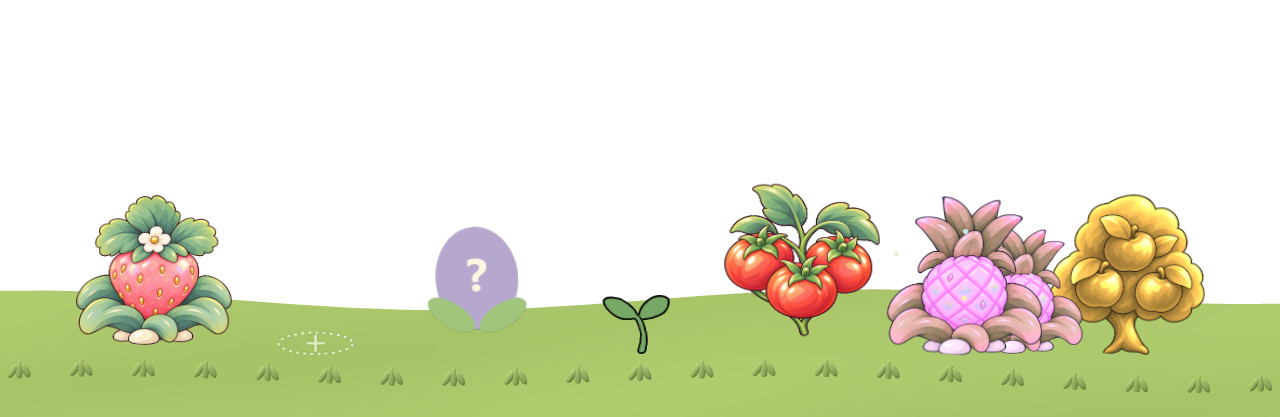
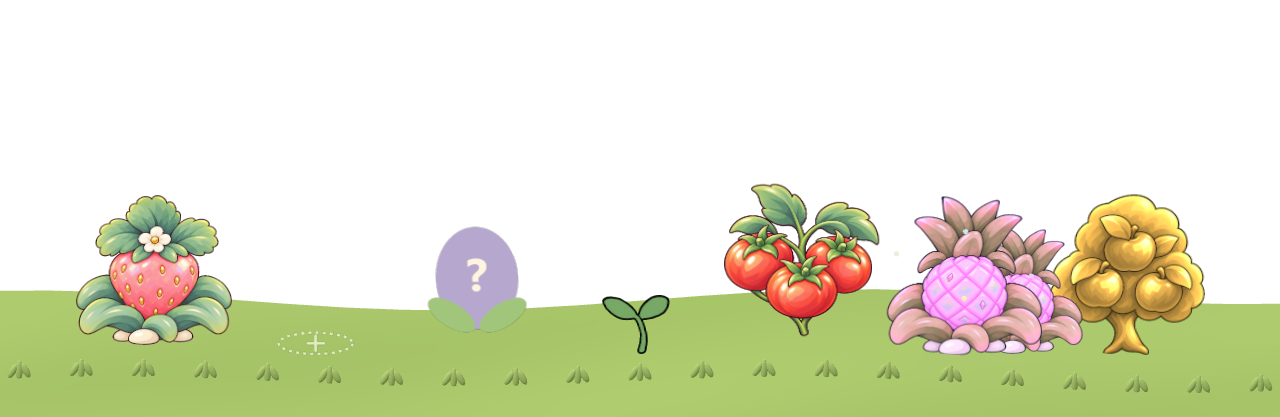
fix: reduce desktop garden rendering load and compact companion panels

Changed region(s): [[0.5625, 0.4365, 0.6875, 0.6235], [0.7188, 0.4676, 0.7812, 0.53]]

diff --git a/app/src/renderer/garden/main.ts b/app/src/renderer/garden/main.ts
@@ -1,4 +1,5 @@
 import '../ui/embedded-bridge';
+import { withTimeout } from '../../shared/timeout';
 import { uiIcon } from '../ui/icons';
 import {renderAppearanceShop} from './appearance-shop';
 import { renderCharacterHeader } from './character-header';
@@ -109,6 +110,7 @@ function showWeather(status:GardenWeatherStatus):void {
 }
 async function refreshWeather(){if(state?.v3||weatherFetching||page!=='weather')return;weatherFetching=true;try{weatherStatus=await api.weather();weatherReceivedAt=Date.now();if(page==='weather'&&!state?.v3)showWeather(weatherStatus);}catch{if(page==='weather'&&!state?.v3)root.textContent='天气暂时无法读取，稍后自动重试。';}finally{weatherFetching=false;}}
 let state: GardenState | undefined, busy = false, fetching = false, signature = '', parentId: string | null = null;
+let loadError='';
 let buyMode = false, sellMode = false;
 let characters: CharacterMeta[] = [], draggingFruit = false, switchingActor = false;
 let actorRevision = 0;
@@ -216,8 +218,8 @@ function art(sp: Species, ts: Trait[] = [], ratio = 1, mode: 'fruit'|'plant'|'se
         box.append(other);
     }
     attachMutationEffects(box, img.src, shown, quality === 'gold' && (mode !== 'plant' || ratio >= 1));
-    if(render3d&&sp==='strawberry'&&(mode!=='plant'||ratio>=1))mountStrawberry3D(box,{mode,ratio,traits:shown,regrowing});
-    if(render3d&&sp==='pineapple'&&(mode!=='plant'||ratio>=1))mountPineapple3D(box,{mode,ratio,traits:shown});
+    if(!compact&&render3d&&sp==='strawberry'&&(mode!=='plant'||ratio>=1))mountStrawberry3D(box,{mode,ratio,traits:shown,regrowing});
+    if(!compact&&render3d&&sp==='pineapple'&&(mode!=='plant'||ratio>=1))mountPineapple3D(box,{mode,ratio,traits:shown});
     return box;
 }
 function produceArt(p: Produce): HTMLElement { return art(p.species, p.traits, 1, 'fruit', false, fruitQuality(p.traits,p)); }
@@ -313,9 +315,10 @@ async function refresh(force = false): Promise<void> {
     if (fetching || switchingActor || draggingFruit)
         return;
     fetching = true;
+    loadError='';
     const revision = actorRevision;
     try {
-        const next = await api.get();
+        const next = await withTimeout(()=>api.get(),10000,'花园读取超时');
         if (revision !== actorRevision || switchingActor) return;
         const key = JSON.stringify(next);
         const unveiled=state?.plots.find(p=>p&&needsReveal(p)&&next.plots.some(n=>n?.id===p.id&&n.revealed));
@@ -327,7 +330,8 @@ async function refresh(force = false): Promise<void> {
         }
     }
     catch (e) {
-        notice(e instanceof Error ? e.message : String(e));
+        if (!state) { loadError=e instanceof Error?e.message:String(e);render(); }
+        else notice(e instanceof Error ? e.message : String(e));
     }
     finally {
         fetching = false;
@@ -562,7 +566,9 @@ function render(): void {
     if(page==='weather'){if(weatherStatus)showWeather(weatherStatus);else root.textContent='正在读取天气…';void refreshWeather();return;}
     document.body.classList.toggle('travel-mode', !strip && (page === 'travel' || page === 'moments'));
     if (!state) {
-        root.textContent = '正在打开花园…';
+        root.replaceChildren();
+        if(loadError){const error=el('section',undefined,'garden-load-error');error.append(el('p',loadError),button('重试',()=>{void refresh(true);render();}));root.append(error);}
+        else root.textContent = '正在打开花园…';
         return;
     }
     if (strip) {
@@ -660,6 +666,7 @@ function renderPlots(host: HTMLElement): void {
     const p = state!.plots[index];
     if (!p && index >= unlockedPlots(state!)) { host.append(el('p', `新版花园使用四块土地，已有作物可以继续收获。`)); return; }
     if (!p) {
+        if(compact){host.append(el('h2',`${index+1}号土地`));renderCompactSeeds(host,index);return;}
         host.append(el('h2', `给 ${index + 1} 号土地选一粒种子`), el('p', state!.v3?'每轮幼苗期可施肥一次，再生后重新选择。':'每株只施肥一次，覆盖全部采摘。', 'muted'));
         const grid = el('div', undefined, 'grid');
         groupSeeds(state!.seeds).forEach(({ seed, count }) => grid.append(seedCard(seed, index, count)));
@@ -1021,6 +1028,16 @@ function positionQuest(): void {
 window.addEventListener('pagehide',()=>farmScene?.dispose(),{once:true});
 
 let bagTab='seeds';
+function renderCompactSeeds(host:HTMLElement,plot?:number):void {
+ const grid=el('div',undefined,'companion-seeds');
+ for(const {seed,count} of groupSeeds(state!.seeds)){
+   const b=button('',()=>{if(plot!==undefined){void act({type:'plant',plot,seed:seed.id});return;}selectedSeed=selectedSeed===seed.id?null:seed.id;api.selectSeed(selectedSeed);render();});
+   b.append(art(seed.species,seed.genes,1,'seed'),el('strong',SPECIES[seed.species].name),el('small','×'+count));b.className='companion-seed';
+   b.setAttribute('aria-pressed',String(selectedSeed===seed.id));b.title=SPECIES[seed.species].name;
+   b.disabled=busy||(render3d&&!supportsGarden3D(seed.species));if(render3d&&!supportsGarden3D(seed.species))b.title+=' · 手绘／桌边模式';grid.append(b);
+ }
+ host.append(grid);if(!state!.seeds.length)host.append(button('商店',()=>api.open('shop')));
+}
 function renderCompact():void {
  if(!state)return;
  const nav=el('nav',undefined,'companion-nav');
@@ -1031,9 +1048,7 @@ function renderCompact():void {
  if(page==='bag'||page==='plots'){
    const tabs=el('nav',undefined,'companion-subnav');for(const [id,label] of [['seeds','种子'],['produce','收获'],['supplies','道具']])tabs.append(button(label,()=>{bagTab=id;render();},bagTab===id?'active':''));content.append(tabs);
    if(bagTab==='seeds'){
-     const grid=el('div',undefined,'companion-seeds');
-     for(const {seed,count} of groupSeeds(state.seeds)){const b=button('',()=>{selectedSeed=selectedSeed===seed.id?null:seed.id;api.selectSeed(selectedSeed);render();});b.append(art(seed.species,seed.genes,1,'seed'),el('strong',SPECIES[seed.species].name),el('small','×'+count));b.className='companion-seed';b.setAttribute('aria-pressed',String(selectedSeed===seed.id));b.title=SPECIES[seed.species].name;b.disabled=busy||(render3d&&!supportsGarden3D(seed.species));if(render3d&&!supportsGarden3D(seed.species))b.title+=' · 手绘／桌边模式';grid.append(b);}content.append(grid);
-     if(!state.seeds.length)content.append(button('商店',()=>api.open('shop')));
+     renderCompactSeeds(content);
    }else{renderBag(content);content.classList.add('bag-'+bagTab);}
  } else if(page==='book')renderBook(content);
  else if(page==='friends')renderFriends(content,ctx);

diff --git a/app/src/main/garden/desktop-host.ts b/app/src/main/garden/desktop-host.ts
@@ -12,13 +12,14 @@ export async function startGardenDesktop(bounds:Rectangle,directory:string,onCli
   return new Promise((resolve,reject)=>{
     const child=spawn('powershell.exe',['-NoProfile','-NoLogo','-NonInteractive','-STA','-ExecutionPolicy','Bypass','-File',file],{windowsHide:true,stdio:['pipe','pipe','pipe']});
     let probeWait:{resolve:(kind:string)=>void;reject:(e:Error)=>void;timer:ReturnType<typeof setTimeout>}|undefined;
-    let ready=false,closed=false,buffer='',stderr='',pending=false,latest:Buffer|null=null,lastFrame=Date.now();
+    let ready=false,closed=false,buffer='',stderr='',pending=false,latest:NativeImage|null=null,lastFrame=Date.now();
+    // Coalesce pending frames before PNG encoding; retain the final still frame for reduced motion.
     const send=(png:Buffer)=>{pending=true;lastFrame=Date.now();child.stdin.write('frame|'+png.toString('base64')+'\n');};
-    const host:GardenDesktopHost={frames:0,handle:'0',probe(x,y){return new Promise((resolve,reject)=>{if(closed||probeWait){reject(Error('Desktop probe unavailable'));return;}const timer=setTimeout(()=>{probeWait=undefined;reject(Error('Desktop probe timeout'));},3000);probeWait={resolve,reject,timer};child.stdin.write(`probe|${Math.round(x)}|${Math.round(y)}\n`);});},send(image){if(closed||!ready||image.isEmpty())return;const png=image.toPNG();if(pending){latest=png;return;}send(png);},dispose(){if(closed)return;closed=true;if(probeWait){clearTimeout(probeWait.timer);probeWait.reject(Error('Desktop closed'));probeWait=undefined;}latest=null;clearTimeout(startup);clearInterval(watchdog);child.stdin.end('quit\n');setTimeout(()=>child.kill(),800).unref();}};
+    const host:GardenDesktopHost={frames:0,handle:'0',probe(x,y){return new Promise((resolve,reject)=>{if(closed||probeWait){reject(Error('Desktop probe unavailable'));return;}const timer=setTimeout(()=>{probeWait=undefined;reject(Error('Desktop probe timeout'));},3000);probeWait={resolve,reject,timer};child.stdin.write(`probe|${Math.round(x)}|${Math.round(y)}\n`);});},send(image){if(closed||!ready||image.isEmpty())return;if(pending){latest=image;return;}const source=image.getSize().width>1920?image.resize({width:1920,quality:'good'}):image;send(source.toPNG());},dispose(){if(closed)return;closed=true;if(probeWait){clearTimeout(probeWait.timer);probeWait.reject(Error('Desktop closed'));probeWait=undefined;}latest=null;clearTimeout(startup);clearInterval(watchdog);child.stdin.end('quit\n');setTimeout(()=>child.kill(),800).unref();}};
     const fail=(e:Error)=>{if(closed)return;host.dispose();if(ready)onLost(e);else reject(e);};
     const startup=setTimeout(()=>fail(Error('桌面草地启动超时')),25000);
     const watchdog=setInterval(()=>{if(pending&&Date.now()-lastFrame>8000)fail(Error('桌面草地绘制超时'));},2000);
-    child.stdout.on('data',b=>{buffer+=b.toString();let i;while((i=buffer.indexOf('\n'))>=0){const line=buffer.slice(0,i).trim();buffer=buffer.slice(i+1);if(!line.startsWith('{'))continue;try{const m=JSON.parse(line);if(closed)continue;if(m.ready&&!ready){ready=true;host.handle=m.handle;clearTimeout(startup);resolve(host);}if(m.frame){host.frames=m.frame;pending=false;if(latest){const png=latest;latest=null;send(png);}}if(m.probe&&probeWait){clearTimeout(probeWait.timer);probeWait.resolve(m.probe);probeWait=undefined;}if(m.click&&Number.isFinite(m.x)&&Number.isFinite(m.y))onClick({x:m.x,y:m.y,double:m.double===true});if(m.fatal)fail(Error(Buffer.from(m.fatal,'base64').toString()));}catch(e){fail(e instanceof Error?e:Error(String(e)));}}if(buffer.length>8192)fail(Error('桌面草地返回数据无效'));});
+    child.stdout.on('data',b=>{buffer+=b.toString();let i;while((i=buffer.indexOf('\n'))>=0){const line=buffer.slice(0,i).trim();buffer=buffer.slice(i+1);if(!line.startsWith('{'))continue;try{const m=JSON.parse(line);if(closed)continue;if(m.ready&&!ready){ready=true;host.handle=m.handle;clearTimeout(startup);resolve(host);}if(m.frame){host.frames=m.frame;pending=false;if(latest){const image=latest;latest=null;host.send(image);}}if(m.probe&&probeWait){clearTimeout(probeWait.timer);probeWait.resolve(m.probe);probeWait=undefined;}if(m.click&&Number.isFinite(m.x)&&Number.isFinite(m.y))onClick({x:m.x,y:m.y,double:m.double===true});if(m.fatal)fail(Error(Buffer.from(m.fatal,'base64').toString()));}catch(e){fail(e instanceof Error?e:Error(String(e)));}}if(buffer.length>8192)fail(Error('桌面草地返回数据无效'));});
     child.stderr.on('data',b=>stderr=(stderr+b.toString()).slice(-4000));child.on('error',fail);child.stdin.on('error',fail);child.on('exit',()=>fail(Error(stderr||'桌面草地已关闭')));
   });
 }

diff --git a/app/test/garden-desktop-host.test.ts b/app/test/garden-desktop-host.test.ts
@@ -1,0 +1,21 @@
+import {afterEach,expect,it,vi} from 'vitest';
+import {EventEmitter} from 'node:events';
+import type {NativeImage} from 'electron';
+const mock=vi.hoisted(()=>({child:undefined as any}));
+vi.mock('node:fs/promises',()=>({writeFile:vi.fn(async()=>{})}));
+vi.mock('node:child_process',()=>({spawn:()=>mock.child}));
+afterEach(()=>vi.useRealTimers());
+it('coalesces busy frames before encoding and still sends the last reduced-motion frame',async()=>{
+ vi.useFakeTimers();
+ const child=Object.assign(new EventEmitter(),{stdin:Object.assign(new EventEmitter(),{write:vi.fn(),end:vi.fn()}),stdout:new EventEmitter(),stderr:new EventEmitter(),kill:vi.fn()});mock.child=child;
+ const {startGardenDesktop}=await import('../src/main/garden/desktop-host');
+ const started=startGardenDesktop({x:0,y:0,width:3840,height:880},'unused',()=>{},()=>{});
+ await Promise.resolve();child.stdout.emit('data','{"ready":true,"handle":"1"}\n');const host=await started;
+ const image=()=>{const reduced={toPNG:vi.fn(()=>Buffer.from('png'))};return {reduced,isEmpty:()=>false,getSize:()=>({width:3840,height:880}),resize:vi.fn(()=>reduced),toPNG:vi.fn()};};
+ const first=image(),middle=image(),last=image();host.send(first as unknown as NativeImage);host.send(middle as unknown as NativeImage);host.send(last as unknown as NativeImage);
+ expect(first.resize).toHaveBeenCalledWith({width:1920,quality:'good'});expect(first.reduced.toPNG).toHaveBeenCalledTimes(1);
+ expect(middle.resize).not.toHaveBeenCalled();expect(last.resize).not.toHaveBeenCalled();
+ child.stdout.emit('data','{"frame":1}\n');expect(last.reduced.toPNG).toHaveBeenCalledTimes(1);expect(middle.resize).not.toHaveBeenCalled();
+ child.stdout.emit('data','{"frame":2}\n');expect(host.frames).toBe(2);host.dispose();host.send(image() as unknown as NativeImage);expect(child.stdin.write).toHaveBeenCalledTimes(2);
+ await vi.runOnlyPendingTimersAsync();
+});

diff --git a/app/src/renderer/garden/companion.css b/app/src/renderer/garden/companion.css
@@ -5,3 +5,6 @@ body.garden-compact{background:#fff9ef!important;color:#4b352b;font:14px/1.5 'Mi
 body.garden-compact #app{border:0;box-shadow:none;border-radius:0;background:#fff9ef;min-height:100vh;margin:0;padding:0}.garden-compact .companion-subnav button{box-shadow:none;color:#967e68;font-weight:400;border-radius:6px}.garden-compact .companion-subnav button.active{color:#4b352b;background:#ede8d7;font-weight:600}.garden-compact button.companion-seed{border-radius:12px}.garden-compact .companion-nav button{background:transparent;box-shadow:none}
 
 .garden-workspace .garden-tools,.garden-workspace .strip-harvest,.garden-workspace .strip-sow,.garden-workspace .quest-pill,.garden-workspace .farm-preview-controls{display:none!important}.garden-compact .spatial-visit .grid{grid-template-columns:1fr}.garden-compact .spatial-visit .card{background:transparent;border:0;padding:10px 0}.garden-compact .spatial-visit .card>small{font-size:11px}
+.garden-load-error{padding:20px;font-size:14px}.garden-load-error button{padding:6px 16px}
+.garden-compact .content{min-height:0}body.garden-compact{scrollbar-width:thin;scrollbar-color:#d2baa0 transparent}
+@media(max-width:380px){body.garden-compact{font-size:12px}.garden-compact .companion-nav{margin:0 10px;gap:4px;padding-bottom:7px}.garden-compact .companion-nav button{gap:4px;font-size:12px}.garden-compact .companion-nav svg{width:19px;height:19px}.garden-compact .content{padding:10px}.garden-compact .companion-subnav{margin-bottom:10px}.companion-seeds{gap:6px}.companion-seed .art{width:48px!important;height:54px!important}.garden-compact .companion-seed strong{font-size:11px}.garden-compact .companion-seed small{font-size:10px}.garden-compact h2{font-size:14px}}

diff --git a/app/src/renderer/ui/direction-c.css b/app/src/renderer/ui/direction-c.css
@@ -33,3 +33,8 @@
 .c-ui .c-space.c-panel{position:relative;background:transparent;border:0;border-radius:0;box-shadow:none;overflow:visible}
 .c-ui .c-space .c-header{position:absolute;z-index:5;top:0;right:0;width:300px;height:68px;border:2px solid #594235;border-bottom:0;border-radius:23px 23px 0 0;background:#fff9ef;padding:14px 12px;gap:6px}
 .c-ui .c-space .c-header h1{font-size:17px}.c-ui .c-space .c-header button{padding:3px}.c-ui .c-space .c-header svg{width:21px;height:21px}.c-ui .c-space .c-frame{background:transparent}
+
+@media(max-width:380px){
+ .c-ui{font-size:12px}.c-ui svg{width:20px;height:20px}.c-ui .c-header{padding:12px 12px 8px;gap:6px}.c-ui .c-header h1,.c-ui .c-header:has(.c-weather) h1{font-size:16px}.c-ui .c-header button{padding:3px}.c-ui .c-header:has(.c-weather){padding:12px 9px 8px;gap:3px}.c-ui .c-weather svg{width:18px;height:18px}.c-ui .c-weather small{font-size:10px}
+ .c-ui .c-tabs{margin:0 12px;gap:3px;padding-bottom:7px}.c-ui .c-tabs button{gap:4px;font-size:12px;padding:8px 0}.c-ui .c-tabs svg{width:18px;height:18px}.c-ui .c-content{padding:12px}.c-ui .c-content.c-embedded{padding:0}.c-ui .c-row{padding:12px 3px;gap:9px}.c-ui .c-row>svg:first-child{width:26px;height:26px}.c-ui .c-room-card{margin:12px 0 5px;padding:15px 10px}.c-ui small{font-size:11px}.c-ui .c-grid{gap:10px}.c-ui .c-app{padding:12px 4px}
+}

diff --git a/app/src/main/desktop-panel.ts b/app/src/main/desktop-panel.ts
@@ -4,7 +4,7 @@ import { BrowserWindow, ipcMain, screen } from 'electron';
 import path from 'node:path';
 import { getPetWindow } from './windows';
 import { allowDesktopWindow, trackDesktopWindow } from './desktop-visibility';
-import { panelBounds, isDesktopPanelPage, type DesktopPanelPage } from '../shared/panel-layout';
+import { panelBounds, compactPanelSize, isDesktopPanelPage, type DesktopPanelPage } from '../shared/panel-layout';
 
 let panel: BrowserWindow | null = null;
 let current: DesktopPanelPage = 'menu';
@@ -13,7 +13,7 @@ function place(): void {
   const pet = getPetWindow()?.getBounds();
   const area = pet ? screen.getDisplayMatching(pet).workArea : screen.getDisplayNearestPoint(screen.getCursorScreenPoint()).workArea;
   const bounds=panelBounds(pet ?? {x:area.x+area.width/2,y:area.y,width:0,height:0}, area,
-    current === 'room' ? {width:1000,height:640} : {width:420,height:560});
+    current === 'room' ? {width:1000,height:640} : compactPanelSize(pet?.width ?? 200));
   if(current==='garden'&&area.width>=920)bounds.x=Math.max(bounds.x,area.x+500);
   const old=fixedWindowSize(panel);
   moveFixedSize(panel,bounds.x,bounds.y,{width:bounds.width,height:bounds.height},old?.width!==bounds.width||old?.height!==bounds.height);

diff --git a/app/src/main/garden/desktop-layer.ts b/app/src/main/garden/desktop-layer.ts
@@ -18,7 +18,7 @@ export async function openHybridGarden(area:Rectangle,onError:(message:string)=>
   const bounds={x:area.x,y:area.y+area.height-height,width:area.width,height};
   const physical=screen.dipToScreenRect(null,bounds);
   const win=new BrowserWindow({...bounds,show:false,transparent:true,frame:false,focusable:false,skipTaskbar:true,hasShadow:false,backgroundColor:'#00000000',title:'QBot Garden Desktop Renderer',webPreferences:{preload:path.join(__dirname,'../preload/index.js'),contextIsolation:true,sandbox:false,offscreen:true,backgroundThrottling:false}});
-  renderer=win;win.webContents.setFrameRate(18);
+  renderer=win;win.webContents.setFrameRate(12);
   let directory:string|undefined,local:GardenDesktopHost|undefined;
   const fail=(e:unknown)=>{if(current!==generation)return;console.error('[garden-desktop]',e);closeHybridGarden();onError('桌面草地暂时无法显示，可切回原版。');};
   win.on('closed',()=>{local?.dispose();if(directory)void cleanup(directory).catch(()=>{});if(renderer===win){renderer=null;host=null;generation++;}});

diff --git a/app/src/renderer/garden/hybrid-scene.js b/app/src/renderer/garden/hybrid-scene.js
@@ -6,7 +6,7 @@ const terrain=(x,z)=>.1+.1*Math.sin(x*.65)+.055*Math.cos(z+x*.4);
 /** Real ground geometry with segmented painted plants. No GLB/model identity substitution. */
 export function createHybridScene(host,onLayout,onError){
  const renderer=new T.WebGLRenderer({alpha:true,antialias:true,powerPreference:'low-power'});
- renderer.setClearColor(0,0);renderer.setPixelRatio(Math.min(devicePixelRatio,1.25));renderer.outputColorSpace=T.SRGBColorSpace;
+ renderer.setClearColor(0,0);renderer.setPixelRatio(1);renderer.outputColorSpace=T.SRGBColorSpace;
  renderer.domElement.className='hybrid-canvas';host.append(renderer.domElement);
  const scene=new T.Scene(),camera=new T.OrthographicCamera(-10,10,4.6,-.7,.1,160);
  scene.add(new T.HemisphereLight('#fff5df','#91a76b',2));const sun=new T.DirectionalLight('#fff4d9',2);sun.position.set(-6,10,5);scene.add(sun);

diff --git a/app/test/panel-layout.test.ts b/app/test/panel-layout.test.ts
@@ -1,6 +1,11 @@
 import { describe, it, expect } from 'vitest';
-import { panelBounds, isDesktopPanelPage } from '../src/shared/panel-layout';
+import { panelBounds, compactPanelSize, isDesktopPanelPage } from '../src/shared/panel-layout';
 describe('desktop panel anchoring',()=>{
+ it('keeps a small pet panel compact with a readable minimum and a bounded maximum',()=>{
+  expect(compactPanelSize(184)).toEqual({width:304,height:380});
+  expect(compactPanelSize(100)).toEqual({width:280,height:350});
+  expect(compactPanelSize(500)).toEqual({width:380,height:475});
+ });
  it('opens below when it fits and above at the bottom without moving the pet',()=>{
   const area={x:0,y:0,width:1920,height:1080},pet={x:500,y:50,width:360,height:360};
   expect(panelBounds(pet,area,{width:420,height:560}).y).toBe(418);

diff --git a/app/src/shared/panel-layout.ts b/app/src/shared/panel-layout.ts
@@ -1,4 +1,9 @@
 type Rect = { x: number; y: number; width: number; height: number };
+/** Match the approved compact panel to the pet, rather than a fixed large window. */
+export function compactPanelSize(petWidth: number): {width:number;height:number} {
+  const width = Math.round(Math.max(280, Math.min(380, petWidth * 1.65)));
+  return {width, height:Math.round(width * 1.25)};
+}
 /** Anchor without moving the pet. Coordinates are DIP, including negative monitors. */
 export function panelBounds(pet: Rect, area: Rect, size: {width:number;height:number}): Rect {
   const width = Math.min(size.width, area.width), height = Math.min(size.height, area.height);

diff --git a/docs/superpowers/specs/2026-10-12-direction-c-runtime-fixes.md b/docs/superpowers/specs/2026-10-12-direction-c-runtime-fixes.md
@@ -1,0 +1,20 @@
+# 方向 C 实机反馈：卡顿、比例和花园加载
+
+用户反馈：突然卡顿，检查是否是本应用内存；花园小面板相对角色过大；独立花园窗口停在“正在打开花园”。沿用已批准的轻量界面方案修复，不新增玩法。
+
+## 观察与修正
+
+- 现场 Windows 总内存约 31.4 GiB，可用约 5.1 GiB。QBot 多进程工作集约 1.8 GiB（含共享页，不能等同独占物理内存），尚无持续增长曲线证明内存泄漏。
+- 桌边草地在约 190.5% 缩放的高分屏上持续传输 PNG；旧实现每次绘制都在主进程压缩图片，即使上一帧尚未处理完。改为最多保留一帧待处理原图，确认上一帧后才缩放/压缩，传输宽度上限 1920，刷新上限 12 fps，WebGL 像素比上限 1。保留最终静止帧，避免减少动态效果时漏掉最后更新。原生点击坐标不随传输降采样改变。
+- 小面板宽度为角色窗口宽的 1.65 倍，限制在 280–380 DIP，高宽比 1.25。本机约 183 DIP 角色对应 304×380 面板，原先固定 420×560。小屏字号/边距和页签同步适配，移除旧内容区最小高度造成的无效滚动条。
+- 空土地使用与背包一致的三列种子格，直接点击播种，不再套用旧的大种子详情卡。紧凑面板不创建额外的果实 3D 画布；空间渲染继续在场景里完成。
+- 曾复现数据读取等待超过 7 秒、独立窗口长时间加载，暂停草地后后续读取消耗 0–3 毫秒，原窗口也恢复。不能仅凭这次采样断言全部延迟均由草地引起。首屏读取加 10 秒超时和明确重试入口，避免错误情况下无限等待；不重置存档或回退成假数据。
+
+## 验证
+
+- 类型检查、构建通过；13 项定位/固定窗口/hybrid/帧传输单测通过。
+- `scripts/test-direction-c.cjs` 11 类隔离交互通过，新增小尺寸空地、无额外画布/横向溢出、请求挂起后超时与重试恢复。
+- `scripts/test-garden-hybrid.cjs` 9 类原生草地回归通过，包括坐标、收获、防重复、模式切换、减少动态效果、关闭与取消启动清理。
+- 实机修复后采样：读取 1/2/2 ms，商店打开约 242 ms；角色 183×183，面板 304×380，无横向或无效纵向滚动，紧凑面板 0 个 canvas。
+- 实机短时主进程 CPU 约 2.1%（此前约 5%）；进程工作集合计约 1.48 GiB、独占提交合计约 847 MiB。前后窗口数和运行时长不完全一致，属于诊断采样，不是严格性能基准或长期泄漏验收。
+- 已正常保存并重启正式客户端。记录与截图在 `output/direction-c-client/performance-check.json`、`live-compact.png`、`live-shop-check.json`；无付费调用、生产种植/收获或真实资产修改。

diff --git a/CLAUDE.md b/CLAUDE.md
@@ -9,6 +9,8 @@
 
 ## 2026-10-12：美术方向 C 正式客户端
 
+- 实机反馈修复：小面板按角色宽度适配（本机 304×380），空地播种改为紧凑种子格，去掉面板内多余 3D 缩略图与无效滚动条。首屏读取 10 秒超时后提供重试。桌边草地先合并待发送帧再压缩，限制 1920 宽/12 fps/像素比 1，保留最终静止帧。13 项单测、新交互 11 类及草地原生 9 类通过；正式客户端已重启验证。现场未证实长期内存泄漏，诊断及限制见 `docs/superpowers/specs/2026-10-12-direction-c-runtime-fixes.md`。
+
 - 悬浮入口整合为聊天、手机、点数/宝箱、花园、菜单。新锚定面板使用暖白底、深棕描边和图标文字导航，桌宠靠底时在上方展开；显隐/静音靠近关闭。角色页承接市场和生成任务，手机承接房间、朋友圈、旅行等。
 - 花园默认种子背包，点击种子后在真实空间播种；拜访切换场景，返回恢复自己的花园。天气标题显示当前特殊天气或真实日历里的下次特殊天气倒计时，HUD 不新增天气入口。保留现有 2D/3D/hybrid 显示偏好。
 - 房间使用现有 3D 场景，默认观赏，主动布置后编辑；家具放置预览可取消，完成/返回时保存。聊天沿用输入框和角色对白，增加可收起记录及小表情面板，多人房间才出现公开发言入口。旅行记录合入朋友圈，奖池直接展示内容。
